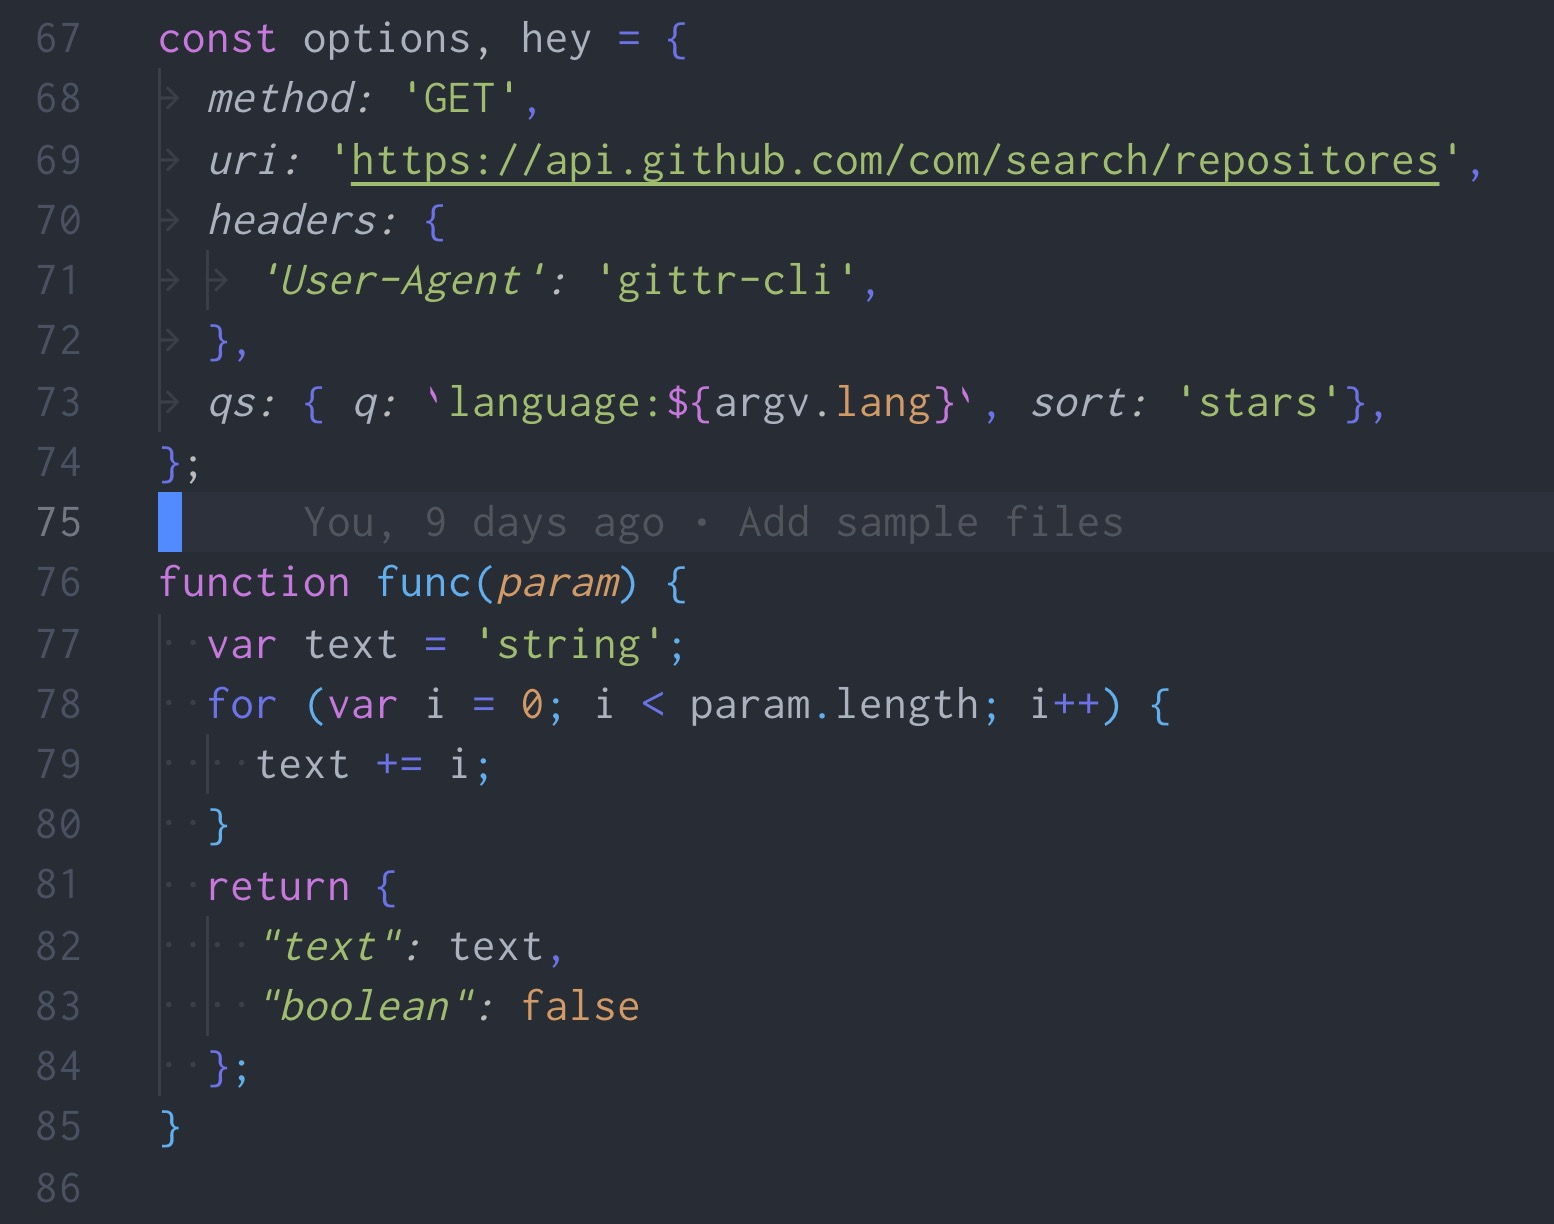
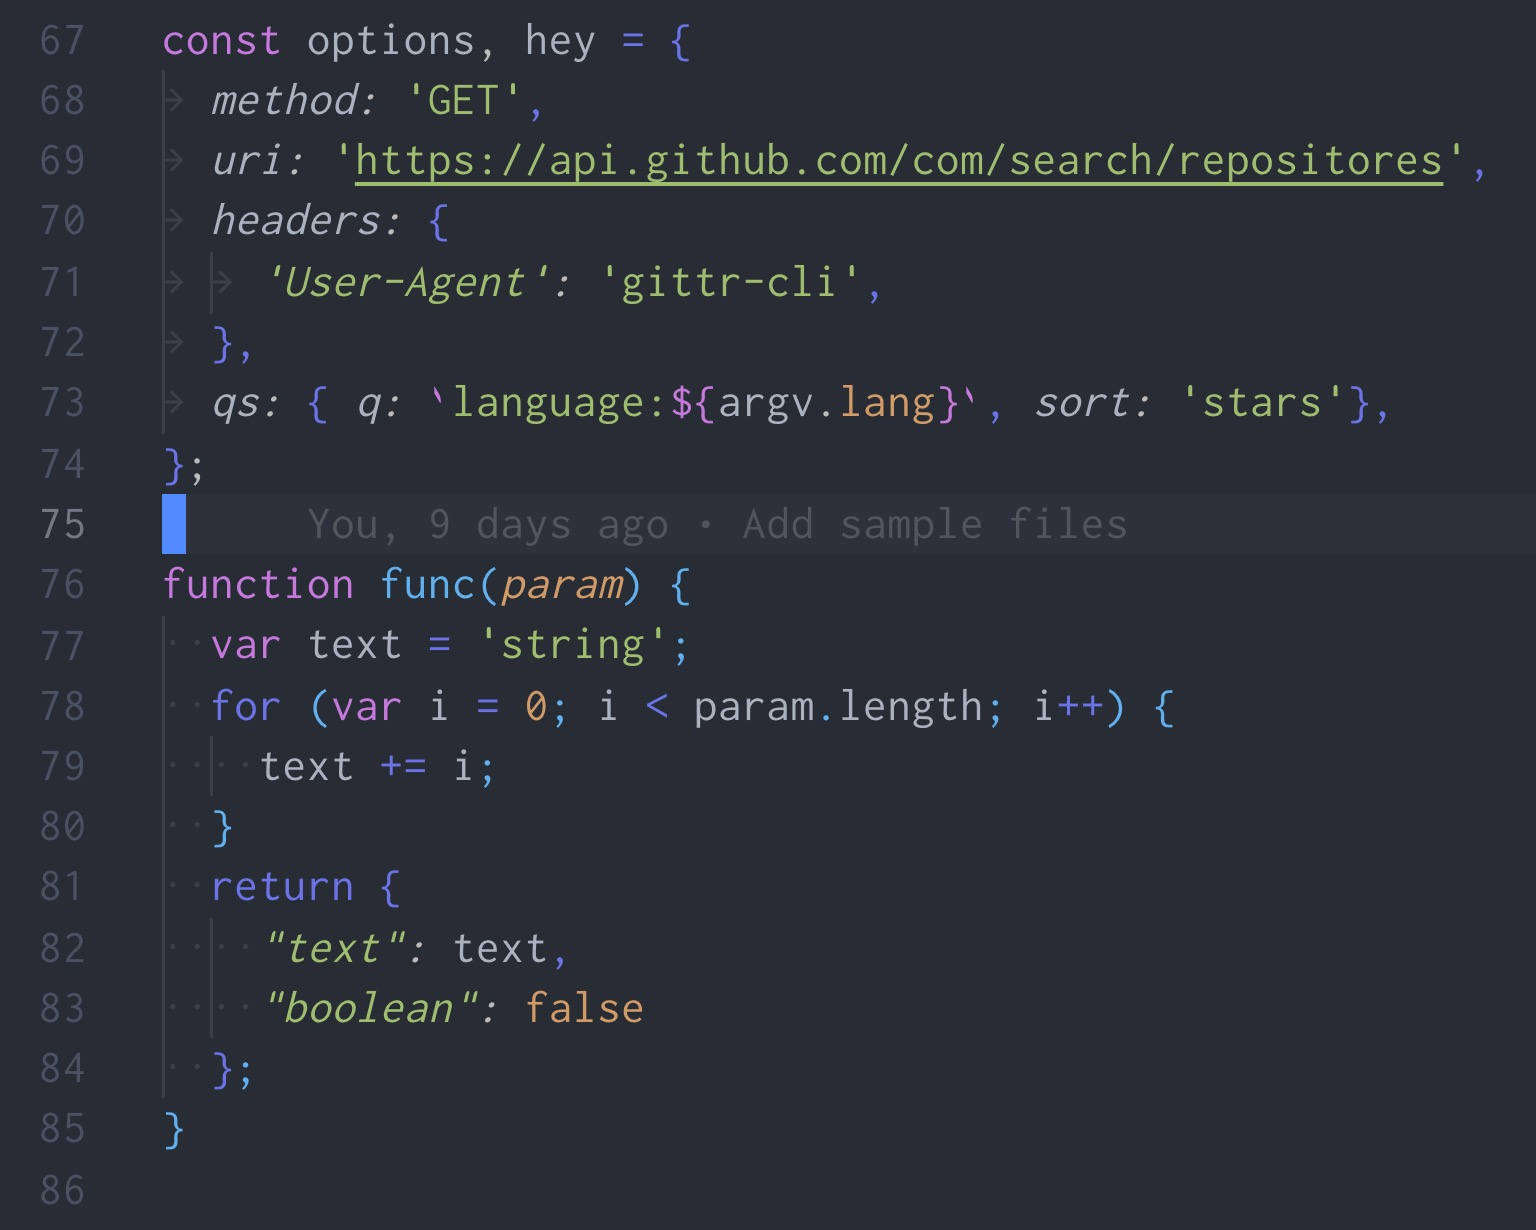
Differentiate color of 'return' statement from storage variables

diff --git a/src/syntax.js b/src/syntax.js
@@ -668,7 +668,8 @@ const configFactory = type => {
       name: 'Keyword Control',
       scope: 'keyword.control.flow',
       settings: {
-        foreground: colorObj['purple']
+        // don't use purple, which is used for storage (variables)
+        foreground: colorObj['slateBlue']
       }
     },
     {

diff --git a/CHANGELOG.md b/CHANGELOG.md
@@ -1,4 +1,7 @@
 # CHANGELOG
+## 1.0.5
+- Differentiate color of 'return' statement from storage variables
+
 ## 1.0.4
 - Differentiate template string expression braces color
 
